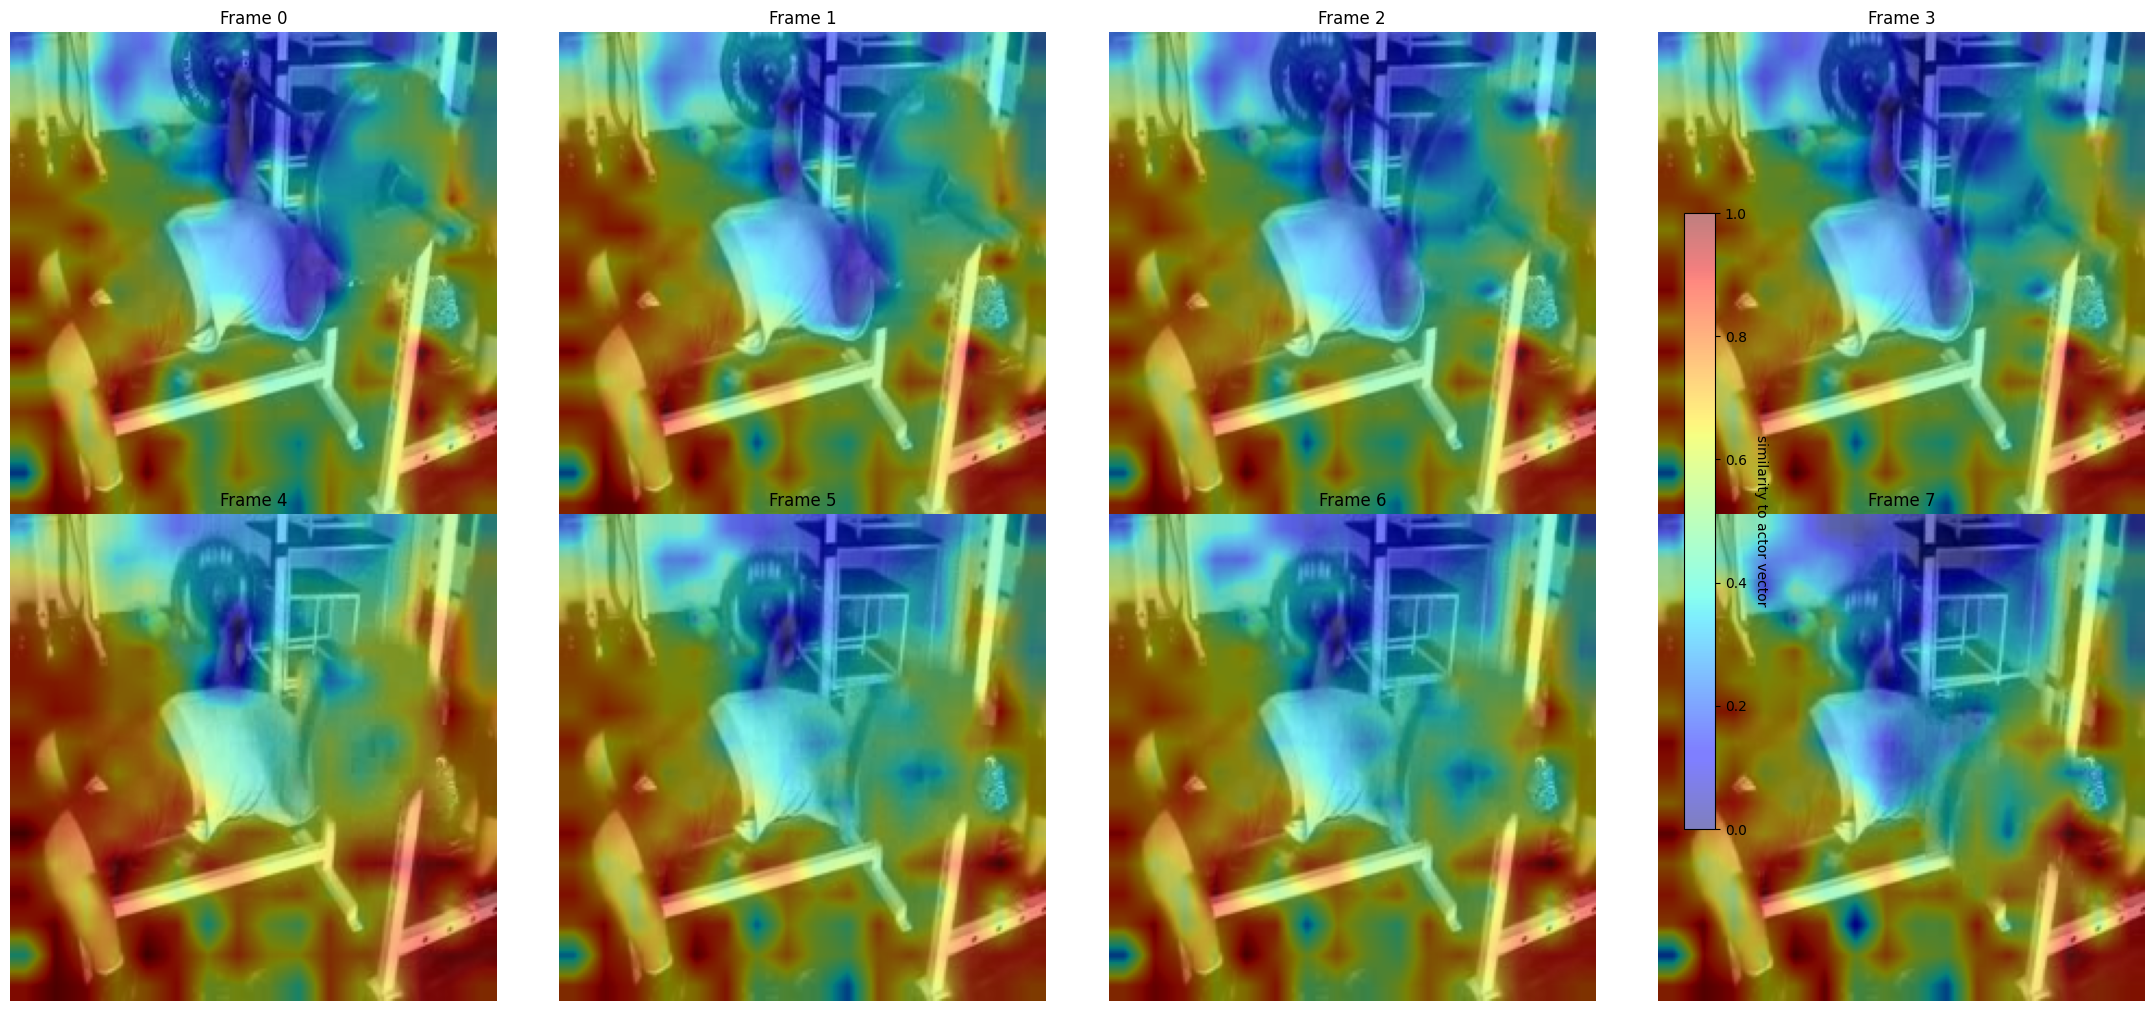
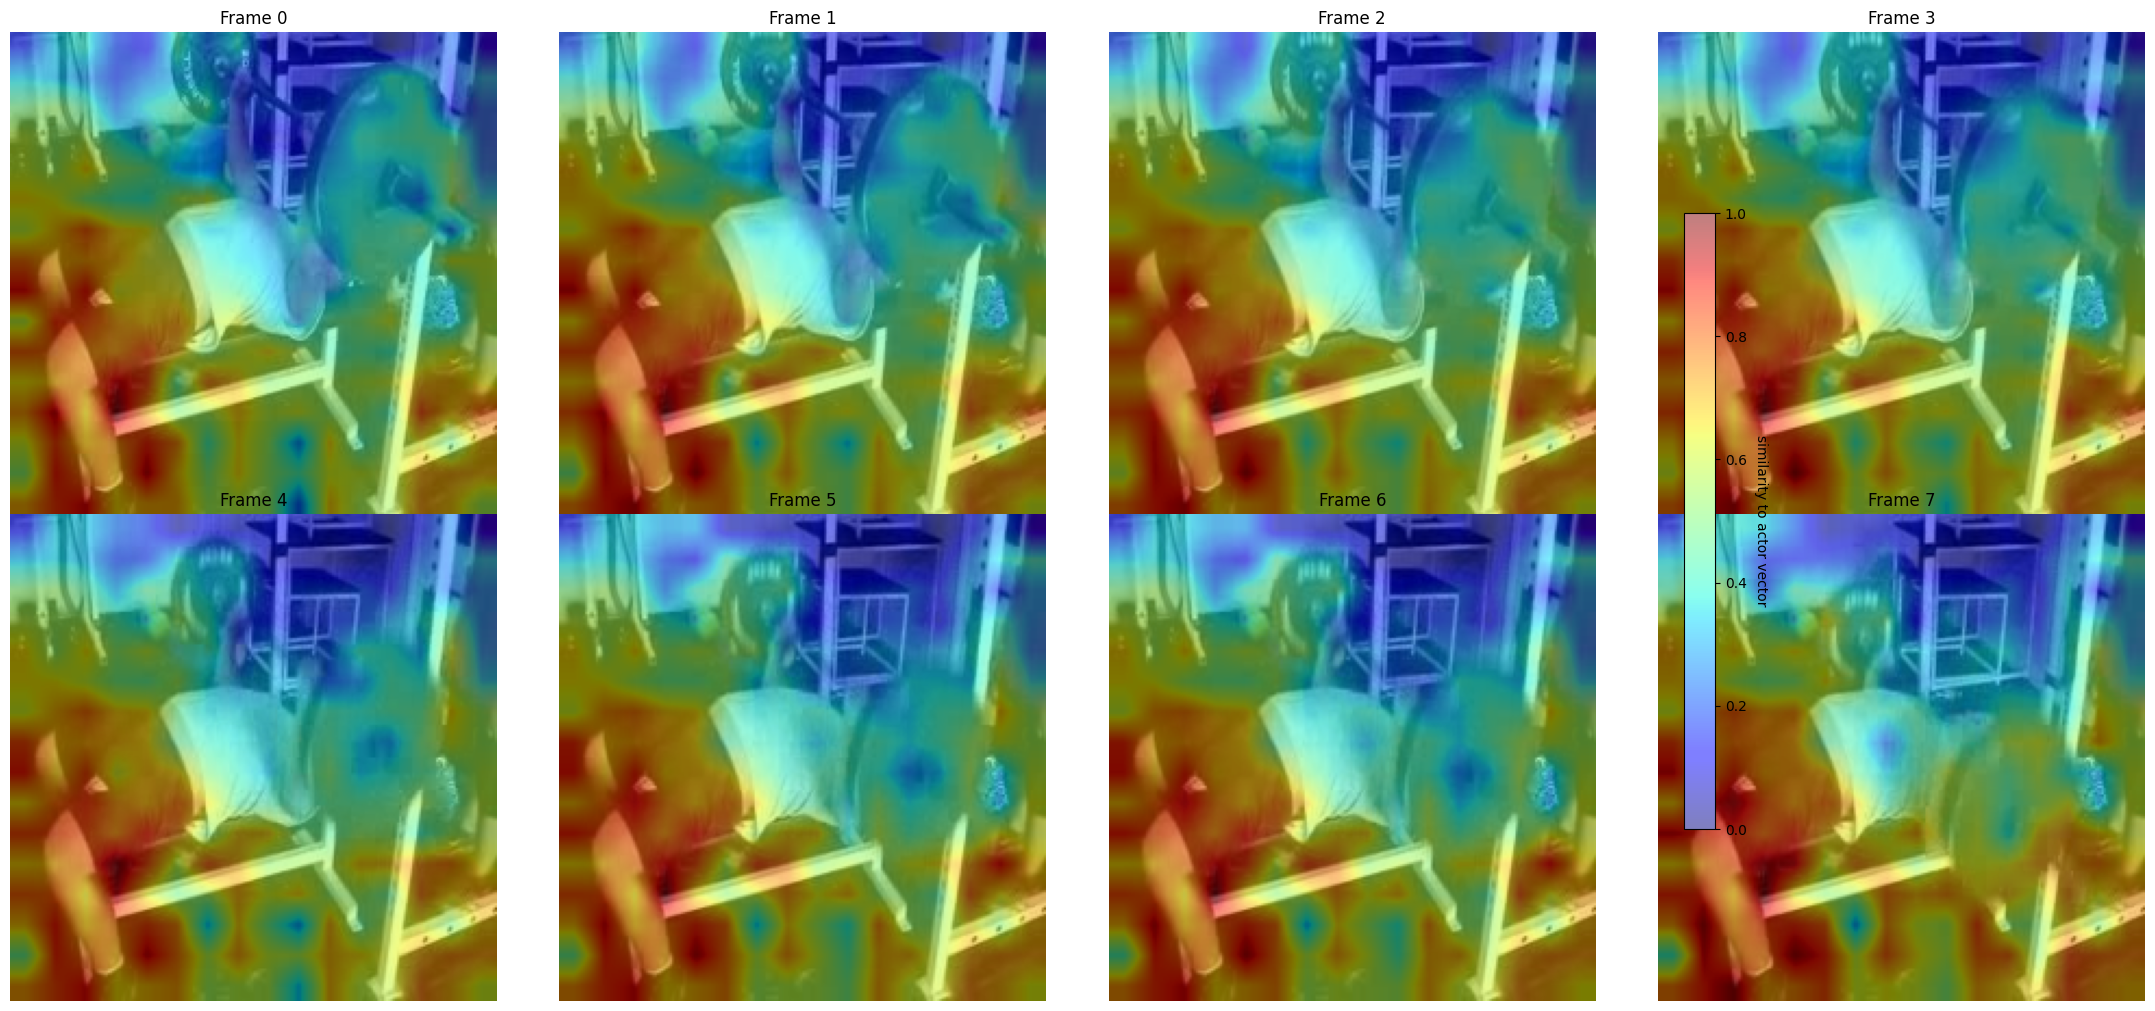
done

diff --git a/DiffTrack/point_sampling/finetune_dino_test.py b/DiffTrack/point_sampling/finetune_dino_test.py
@@ -6,21 +6,19 @@ import os
 from model_finetune import DINOv2_LoRA
 import matplotlib.pyplot as plt
 
-checkpoint_path = "test_models/lora_dino_epoch_0.pth" 
-# video_path = "UCF_Rep/val/v_Rowing_g21_c03.mp4" #pick a specific video to test
-video_path = "vids_mp4/9wyq-dzy2TI_22.0_26.666667.mp4" #pick a specific video to test 
+checkpoint_path = "test_models/lora_dino_epoch_1.pth" 
+# video_path = "UCF_Rep/val/v_ShavingBeard_g23_c06.mp4" #pick a specific video to test
+video_path = "vids_mp4/swim.mp4" #pick a specific video to test 
 # video_path = "countix/-dxBq0WzYRU_35.42309_37.71705.mp4"
 device = torch.device("cuda" if torch.cuda.is_available() else "cpu")
 
 def visualize():
-    #1. init model and load lora weights
     model = DINOv2_LoRA().to(device)
     state_dict = torch.load(checkpoint_path, map_location=device, weights_only=True)
     model.load_state_dict(state_dict)
     model.eval()
     print(f"loaded weights from {checkpoint_path}")
 
-    #2. grab a few frames from the video
     cap = cv2.VideoCapture(video_path)
     frames = []
     raw_frames = []
@@ -42,7 +40,6 @@ def visualize():
     #stack and move to device [1, T, 3, 224, 224]
     input_tensor = torch.stack(frames).unsqueeze(0).to(device)
 
-    #3. run inference
     with torch.no_grad():
         #features shape: [1, T, 768, 16, 16]
         features = model(input_tensor)
@@ -52,6 +49,51 @@ def visualize():
         #then see which patches look most like it
         avg_feature = features.mean(dim=(1, 3, 4), keepdim=True) # [1, 1, 768, 1, 1]
         sim_map = torch.cosine_similarity(features, avg_feature, dim=2) # [1, T, 16, 16]
+
+        # '''
+        # alt method
+        # '''
+        # corners = torch.stack([
+        #     features[:, :, :, 0, 0],   # Top-left
+        #     features[:, :, :, 0, -1],  # Top-right
+        #     features[:, :, :, -1, 0],  # Bottom-left
+        #     features[:, :, :, -1, -1]  # Bottom-right
+        # ], dim=-1) # Shape: [1, T, 768, 4]
+
+        # # Average ONLY these corner patches to get a 100% pure "Background Vector"
+        # pure_bg_feature = corners.mean(dim=(1, 3), keepdim=True).unsqueeze(-1) # [1, 1, 768, 1, 1]
+        
+        # # Background will now perfectly match (Red). Actor will heavily mismatch (Deep Blue).
+        # sim_map = torch.cosine_similarity(features, pure_bg_feature, dim=2)
+    
+    # with torch.no_grad():
+    #     features = model(input_tensor) # [1, T, 768, 16, 16]
+    #     _, T, C, H, W = features.shape
+        
+    #     # 1. Flatten all patches across space and time into a 2D matrix
+    #     # Shape becomes [T * H * W, 768] (e.g., [2048, 768])
+    #     features_flat = features.view(T, C, H * W).permute(0, 2, 1).reshape(T * H * W, C)
+        
+    #     # 2. Mean-center the features (required for PCA)
+    #     features_flat = features_flat - features_flat.mean(dim=0, keepdim=True)
+        
+    #     # 3. Run PCA to find the top 3 principal components
+    #     # U contains the projected scores for each patch
+    #     U, S, V = torch.pca_lowrank(features_flat, q=3)
+        
+    #     # 4. Grab the First Principal Component (PC1)
+    #     # PC1 represents the axis of greatest variance (Foreground vs Background)
+    #     pc1 = U[:, 0].view(1, T, H, W)
+        
+    #     # 5. Auto-Invert logic
+    #     # PCA directions are arbitrary (+ or -). We assume corners are background.
+    #     # If the corners have a positive score, we flip the sign so the actor is positive.
+    #     corners_mean = (pc1[0, 0, 0, 0] + pc1[0, 0, 0, -1] + pc1[0, 0, -1, 0] + pc1[0, 0, -1, -1]) / 4.0
+    #     if corners_mean > 0:
+    #         pc1 = -pc1
+            
+    #     # Rename back to sim_map so your plotting code works without changes
+    #     sim_map = pc1
         
     #4. plotting
     fig, axes = plt.subplots(2, 4, figsize=(22, 10))

diff --git a/DiffTrack/point_sampling/train_finetune.py b/DiffTrack/point_sampling/train_finetune.py
@@ -96,7 +96,7 @@ def train():
                     mode='nearest'
                 ).view(B, T, 1, 16, 16)
 
-                #weighted averaging: pool only the actor pixels
+                #weighted averaging
                 #we sum across time (dim=1) and space (dim=3,4) to get one single vector per video
                 anchor_vec = torch.sum(anchor_dino * anchor_mask, dim=(1, 3, 4)) / (torch.sum(anchor_mask, dim=(1, 3, 4)) + 1e-8)
                 pos_vec = torch.sum(pos_dino * pos_mask, dim=(1, 3, 4)) / (torch.sum(pos_mask, dim=(1, 3, 4)) + 1e-8)
@@ -104,8 +104,11 @@ def train():
                 anchor_vec = F.normalize(anchor_vec, dim=1) #[b, 768]
                 pos_vec = F.normalize(pos_vec, dim=1) #[b, 768]
                 
+                '''
+                contrastive learning loss! - infoNCE
+                '''
                 #infonce logits (temporal positives/negatives)
-                temporal_logits = torch.matmul(anchor_vec, pos_vec.T) / temperature
+                temporal_logits = torch.matmul(anchor_vec, pos_vec.T) / temperature #diagonals should tend to 1(positives)
                 
                 #spatial negatives (background of the same videos)
                 anchor_bg_mask = 1.0 - anchor_mask
@@ -116,6 +119,8 @@ def train():
                 pos_bg_vec = F.normalize(torch.sum(pos_dino * pos_bg_mask, dim=(1, 3, 4)) / (torch.sum(pos_bg_mask, dim=(1, 3, 4)) + 1e-8), dim=1)
                 pos_spatial_logits = torch.sum(anchor_vec * pos_bg_vec, dim=1, keepdim=True) / temperature
 
+                #dot prod b/w bg_vec and vec s hould be very low..
+                
                 #combine and calculate loss
                 logits = torch.cat([temporal_logits, anchor_spatial_logits, pos_spatial_logits], dim=1)
                 labels = torch.arange(B).to(device)

diff --git a/DiffTrack/point_sampling/data_utils.py b/DiffTrack/point_sampling/data_utils.py
@@ -239,7 +239,6 @@ class UCFRep_Finetune_Dataset(Dataset):
         
         cap.release()
         
-        #the safety net for opencv mp4 quirks
         #if it read absolutely nothing (bad seek), fill with zeros
         if len(frames) == 0:
             return torch.zeros((expected_len, 3, 224, 224))
@@ -251,23 +250,25 @@ class UCFRep_Finetune_Dataset(Dataset):
         return torch.stack(frames) #now guaranteed to return [8, 3, 224, 224]
 
     def __getitem__(self, idx):
+        #fetch the related files for this video file (video, flow.pt, depth.pt)
         v_name = self.video_names[idx]
         pt_path = os.path.join(self.pt_dir, v_name)
         mp4_path = os.path.join(self.mp4_dir, v_name + ".mp4")
 
+        #get total frames
         flow_meta = torch.load(os.path.join(pt_path, "flow.pt"), weights_only=True)
         t_total = flow_meta.shape[0]
 
         # Calculate temporal slices
-        max_start = t_total - self.clip_len - self.k_gap - 1
-        if max_start <= 0:
+        max_start = t_total - self.clip_len - self.k_gap - 1 
+        if max_start <= 0: #edge case, shouldnt happen..
             start_t, k = 0, 0
         else:
-            start_t = torch.randint(0, max_start, (1,)).item()
-            k = self.k_gap
+            start_t = torch.randint(0, max_start, (1,)).item() #chose csome random stanrting index
+            k = self.k_gap # k is how far ahead to look in number of frames to find the poitive pair
 
         anchor_idx = slice(start_t, start_t + self.clip_len)
-        pos_idx = slice(start_t + k, start_t + k + self.clip_len)
+        pos_idx = slice(start_t + k, start_t + k + self.clip_len) #positive clip is curr_frame + k
 
         
         #multiply start_t by 2 because .pt files were created with stride=2

diff --git a/DiffTrack/point_sampling/model_finetune.py b/DiffTrack/point_sampling/model_finetune.py
@@ -29,11 +29,11 @@ class DINOv2_LoRA(nn.Module):
         b, t, c, h, w = x.shape
         
         #squash b and t to process frames through dino in one go
-        x = x.view(b * t, c, h, w)
+        x = x.view(b * t, c, h, w) #ts is now [32, 3, 224, 224]
         
         #run through lora-wrapped dino
         outputs = self.model(x)
-        features = outputs.last_hidden_state #[b*t, 257, 768]
+        features = outputs.last_hidden_state #[b*t, 257, 768] -> [32, 257, 768]; 256 patch tokens + [cls] token
         
         #grab patch tokens (ignore cls token at index 0)
         #reshape back to [b*t, 768, 16, 16] for spatial masking later
@@ -50,13 +50,13 @@ def get_robust_mask(flow, depth, threshold_multiplier=1.2):
     mag = torch.norm(flow, dim=2, keepdim=True) #[b, t, 1, h, w]
     
     #normalize depth to 0-1 range
-    depth_norm = depth / (depth.max() + 1e-8)
+    depth_norm = depth / (depth.max() + 1e-8) #higher is closer, lower is farther
     
     combined_score = mag * depth_norm
     
     #instead of a hard cutoff, we only take pixels 'more active' than the average
     #this saves us if the whole frame is panning
-    mean_score = combined_score.mean(dim=(3, 4), keepdim=True)
+    mean_score = combined_score.mean(dim=(3, 4), keepdim=True) #[4, 8, 1, 1, 1]
     binary_mask = (combined_score > (mean_score * threshold_multiplier)).float()
     
     return binary_mask
